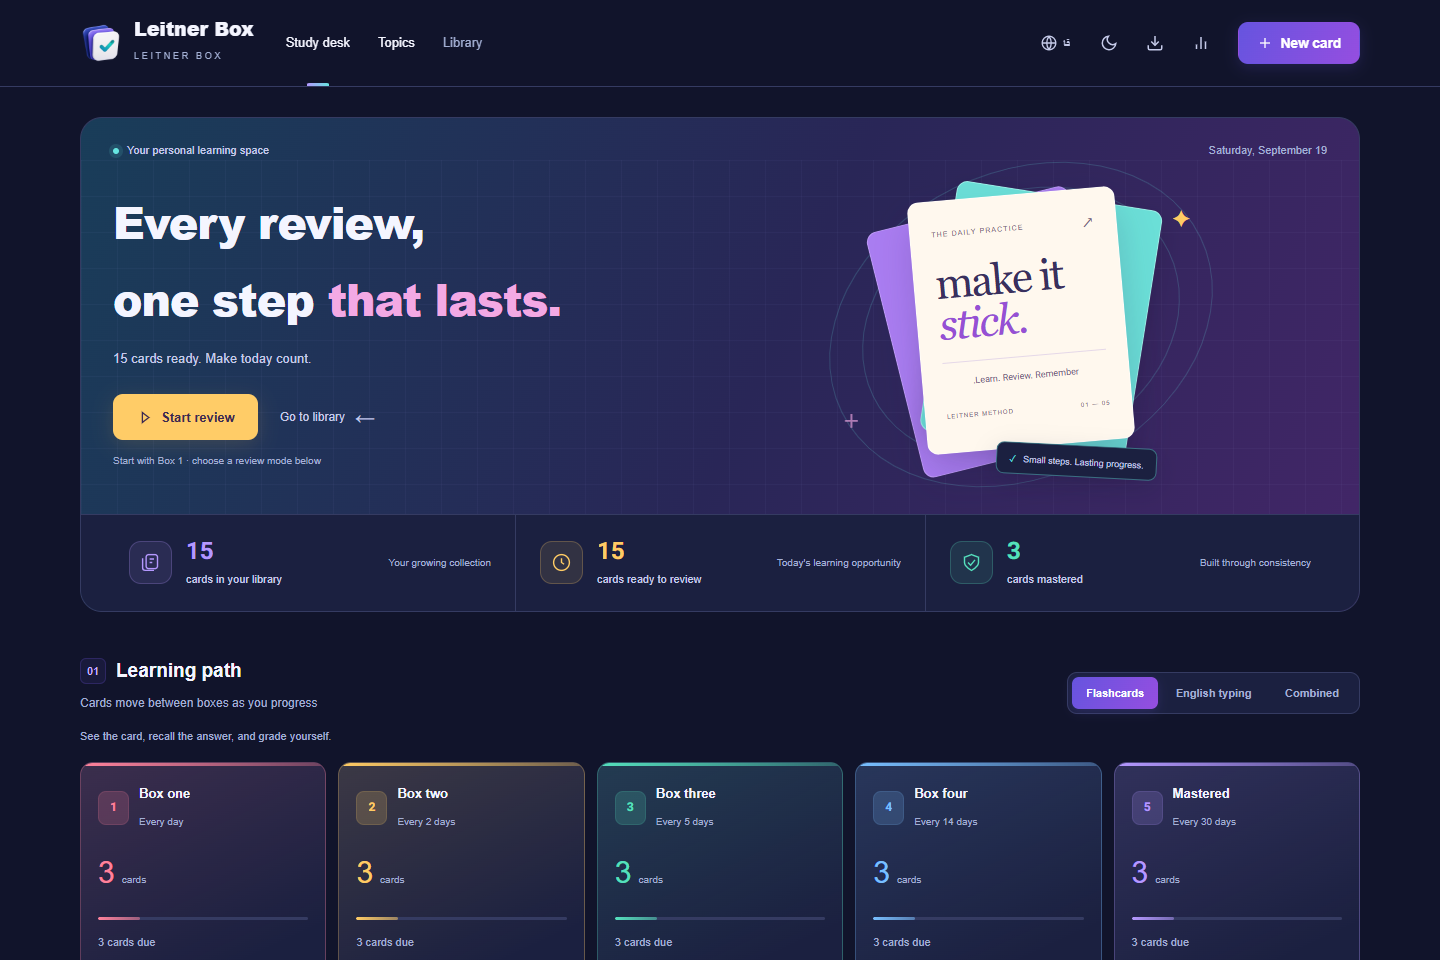
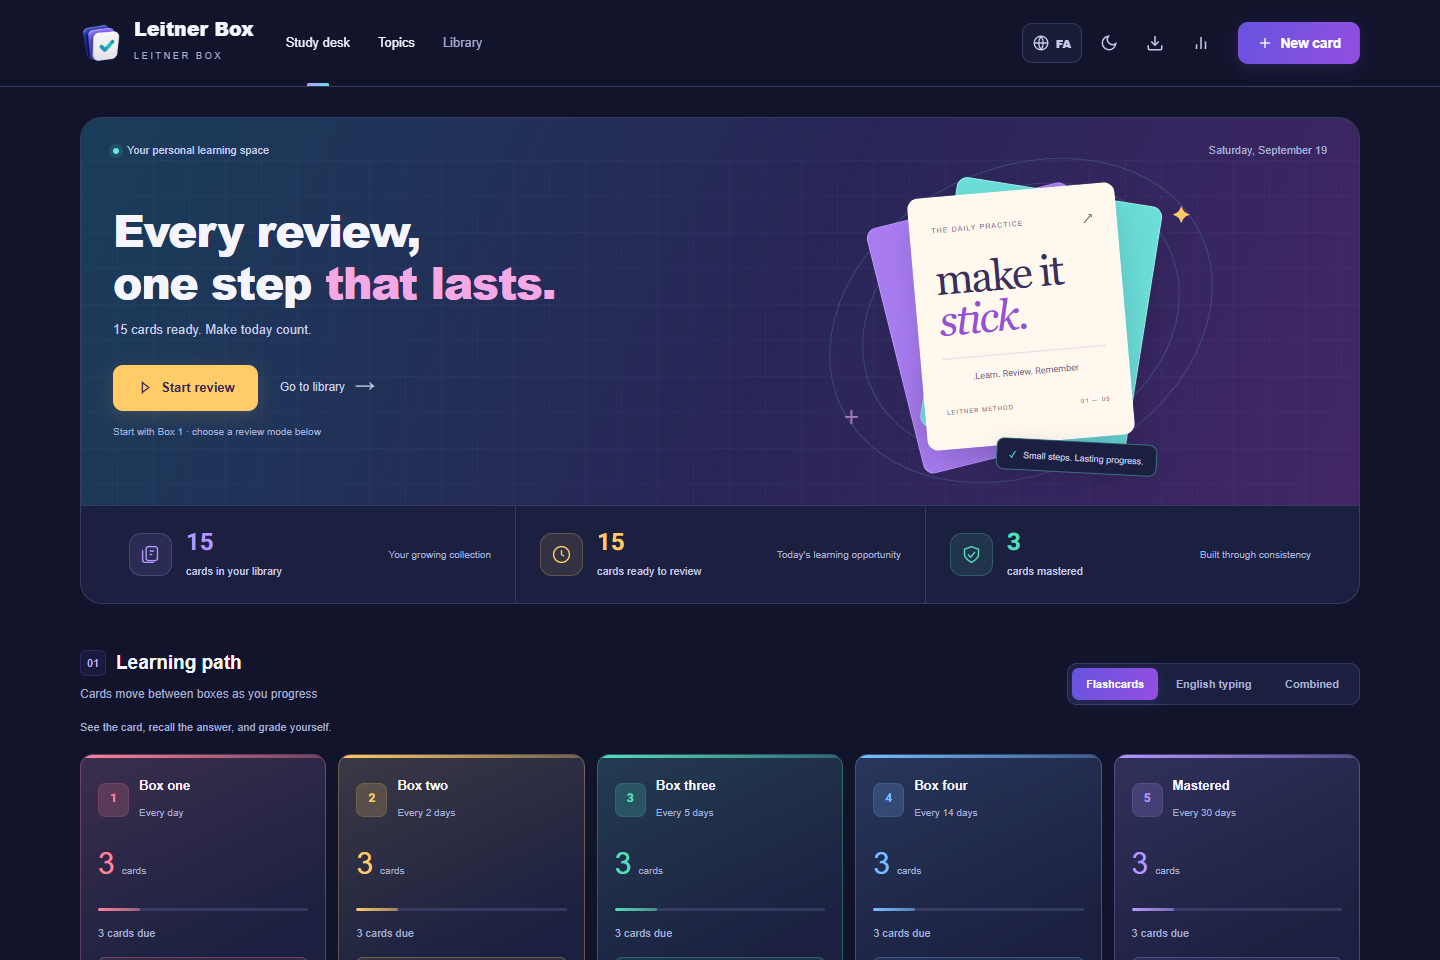
Polish the English interface on mobile

diff --git a/public/styles/studio.css b/public/styles/studio.css
@@ -223,6 +223,17 @@ select:focus-visible,
     width: 38px;
     height: 40px;
 }
+.header-actions .language-toggle {
+    width: auto;
+    min-width: 54px;
+    padding-inline: 9px;
+    border-color: var(--border-subtle);
+    background: var(--bg-glass);
+}
+.header-actions .language-toggle:hover {
+    border-color: var(--border-light);
+    background: var(--bg-glass-hover);
+}
 .header-actions .btn-primary {
     margin-inline-start: 10px;
 }
@@ -318,6 +329,11 @@ select:focus-visible,
     color: var(--hero-accent);
     font-style: normal;
 }
+html[data-language='en'] .welcome-copy h2 {
+    max-width: 560px;
+    line-height: 1.18;
+    letter-spacing: -1.2px;
+}
 .welcome-copy p {
     font-size: 13px;
     color: var(--text-secondary);
@@ -362,7 +378,11 @@ select:focus-visible,
     color: var(--text-primary);
 }
 .text-link span {
+    display: inline-block;
     font-size: 20px;
+}
+html[data-language='en'] .welcome-actions .text-link span {
+    transform: rotate(180deg);
 }
 .study-caption {
     display: block;
@@ -631,7 +651,7 @@ select:focus-visible,
     color: var(--text-muted);
     font-size: 11px;
     margin: -6px 0 16px;
-    text-align: left;
+    text-align: start;
 }
 .boxes-grid {
     grid-template-columns: repeat(5, minmax(0, 1fr));
@@ -1680,9 +1700,10 @@ kbd,
         height: 36px;
     }
     .header-actions .language-toggle {
-        width: 38px;
-        min-width: 38px;
-        padding-inline: 0;
+        width: 42px;
+        min-width: 42px;
+        padding-inline: 7px;
+        font-size: 10px;
     }
     .header-actions .language-toggle svg {
         display: none;
@@ -1791,7 +1812,7 @@ kbd,
         font-size: 11px;
     }
     .mode-explainer {
-        text-align: right;
+        text-align: start;
         font-size: 10px;
         margin-top: -6px;
     }
@@ -2003,7 +2024,8 @@ kbd,
         padding: 14px 9px;
     }
     .stat-pill .stat-label {
-        font-size: 8px;
+        font-size: 9px;
+        line-height: 1.35;
     }
     .today-date {
         font-size: 8px;

diff --git a/src/client/i18n.js b/src/client/i18n.js
@@ -68,6 +68,7 @@ const ENGLISH = new Map([
     ['هر ۱۴ روز', 'Every 14 days'],
     ['هر ۳۰ روز', 'Every 30 days'],
     ['شروع مرور', 'Start review'],
+    ['مرور', 'Review'],
     ['مرور موضوعی', 'Review by topic'],
     ['کارتهای آماده مرور را بر اساس موضوع تمرین کنید', 'Practise due cards by topic'],
     ['پیدا کردن موضوع…', 'Find a topic…'],
@@ -471,7 +472,7 @@ export function createI18n(initialLanguage = 'fa') {
 
     function updateToggleLabels() {
         document.querySelectorAll('[data-language-toggle-label]').forEach((label) => {
-            const nextLabel = language === 'fa' ? 'EN' : 'فا';
+            const nextLabel = language === 'fa' ? 'EN' : 'FA';
             if (label.textContent !== nextLabel) label.textContent = nextLabel;
         });
         document.querySelectorAll('[data-language-toggle]').forEach((button) => {

diff --git a/src/server/http.js b/src/server/http.js
@@ -65,7 +65,7 @@ export function createApplicationServer(repository, config) {
             if (url.pathname === '/api/health' && req.method === 'GET') {
                 json(res, 200, {
                     application: 'leitner-box',
-                    version: '2.1.0',
+                    version: '2.1.1',
                     database: 'sqlite',
                     ready: true,
                     initialized: repository.read().initialized,
